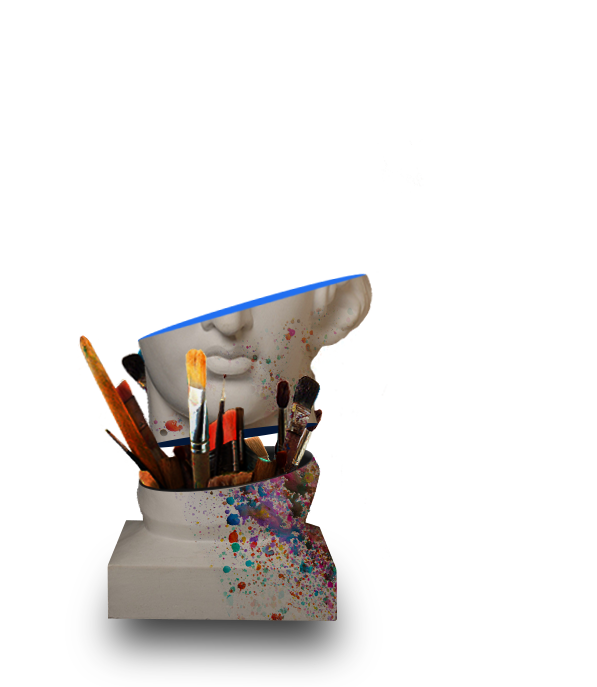
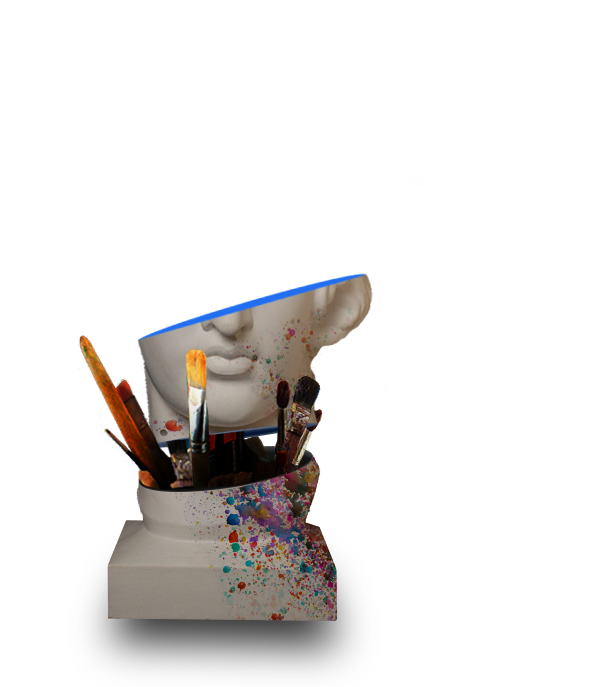
Fix - statue

Changed region(s): [[0.2111, 0.5808, 0.4824, 0.7336], [0.1809, 0.4891, 0.2714, 0.5808], [0.1809, 0.6114, 0.2111, 0.6419]]

diff --git a/sass/style.css b/sass/style.css
@@ -383,8 +383,8 @@ h1:hover {
   display: grid;
   height: 100vh;
   width: 50%;
-  -ms-grid-columns: 1fr 1fr;
-      grid-template-columns: 1fr 1fr;
+  -ms-grid-columns: 1fr;
+      grid-template-columns: 1fr;
   -ms-grid-rows: 1fr 1fr;
       grid-template-rows: 1fr 1fr;
 }
@@ -395,8 +395,9 @@ h1:hover {
   -ms-grid-row: 1;
   -ms-grid-row-span: 1;
   grid-row: 1 / 2;
-  z-index: 8;
-  margin: 38px 0 0 104px;
+  z-index: 16;
+  margin-top: 130px;
+  margin-left: 500px;
 }
 
 #statue_head:hover {
@@ -430,8 +431,9 @@ h1:hover {
   -ms-grid-row: 1;
   -ms-grid-row-span: 1;
   grid-row: 1 / 2;
-  margin: 72px 0 0 105px;
-  z-index: 3;
+  margin-top: 140px;
+  margin-left: 500px;
+  z-index: 14;
   -webkit-animation: 3s move_statue_brow;
           animation: 3s move_statue_brow;
 }
@@ -468,8 +470,9 @@ h1:hover {
   -ms-grid-row: 1;
   -ms-grid-row-span: 1;
   grid-row: 1 / 2;
-  margin: 62px 0 0 52px;
-  z-index: 1;
+  margin-top: 174px;
+  margin-left: 500px;
+  z-index: 12;
   -webkit-animation: 3s move_statue_eyes;
           animation: 3s move_statue_eyes;
 }
@@ -506,7 +509,8 @@ h1:hover {
   -ms-grid-row: 1;
   -ms-grid-row-span: 1;
   grid-row: 1 / 2;
-  margin: 74px 0 0 42px;
+  margin-top: 190px;
+  margin-left: 450px;
   z-index: 10;
   -webkit-animation: 3s move_statue_piedestal;
           animation: 3s move_statue_piedestal;
@@ -540,8 +544,8 @@ h1:hover {
   -ms-grid-row: 1;
   -ms-grid-row-span: 2;
   grid-row: 1 / 3;
-  margin: 50px 0 0 230px;
-  z-index: 2;
+  margin: 150px 300px 0 700px;
+  z-index: 15;
   -webkit-animation: 4s move_txt-bienvenue;
           animation: 4s move_txt-bienvenue;
 }
@@ -582,8 +586,8 @@ h1:hover {
   -ms-grid-row: 1;
   -ms-grid-row-span: 2;
   grid-row: 1 / 3;
-  margin: 170px 0 0 280px;
-  z-index: 2;
+  margin: 280px 300px 0 700px;
+  z-index: 13;
   -webkit-animation: 3s move_txt-dans_la;
           animation: 3s move_txt-dans_la;
 }
@@ -623,16 +627,16 @@ h1:hover {
   -ms-grid-row: 1;
   -ms-grid-row-span: 2;
   grid-row: 1 / 3;
-  margin: 256px 0 0 230px;
-  z-index: 4;
+  margin: 410px 300px 0 700px;
+  z-index: 11;
   -webkit-animation: 4s move_txt-galerie;
           animation: 4s move_txt-galerie;
 }
 
 @-webkit-keyframes move_txt-galerie {
   0% {
-    -webkit-transform: translatey(-27rem) scale(3);
-            transform: translatey(-27rem) scale(3);
+    -webkit-transform: translatey(0rem) scale(1.2);
+            transform: translatey(0rem) scale(1.2);
     opacity: 0;
   }
   100% {
@@ -644,8 +648,8 @@ h1:hover {
 
 @keyframes move_txt-galerie {
   0% {
-    -webkit-transform: translatey(-27rem) scale(3);
-            transform: translatey(-27rem) scale(3);
+    -webkit-transform: translatey(0rem) scale(1.2);
+            transform: translatey(0rem) scale(1.2);
     opacity: 0;
   }
   100% {

diff --git a/sass/style.scss b/sass/style.scss
@@ -290,14 +290,16 @@ body {
       display: grid;
       height: 100vh;
       width: 50%;
-      grid-template-columns: 1fr 1fr;  
+      grid-template-columns: 1fr;  
       grid-template-rows: 1fr 1fr;
       }
      #statue_head{   
       grid-column: 1 / 1;
       grid-row: 1 / 2;
-      z-index: 8;
-      margin : 38px 0 0 104px;
+      z-index:16 ;
+      // margin : 38px 0 0 104px;
+      margin-top: 130px;
+      margin-left: 500px;
        &:hover {
          animation: 4s move_statue_head;
        }
@@ -313,8 +315,10 @@ body {
        #statue_brow{
         grid-column: 1 / 1;
         grid-row: 1 / 2;
-        margin : 72px 0 0 105px;
-        z-index: 3;
+        // margin : 72px 0 0 105px;
+        margin-top: 140px;
+        margin-left: 500px;
+        z-index: 14;
         animation: 3s move_statue_brow;
         }
          @keyframes move_statue_brow {
@@ -329,8 +333,10 @@ body {
        #statue_eyes{
        grid-column: 1 / 1;
        grid-row: 1 / 2;
-       margin : 62px 0 0 52px;
-       z-index: 1;
+      //  margin : 62px 0 0 52px;
+      margin-top: 174px;
+      margin-left: 500px;
+       z-index: 12;
        animation: 3s move_statue_eyes;
        }
        @keyframes move_statue_eyes {
@@ -345,7 +351,9 @@ body {
        #statue_piedestal{ 
         grid-column: 1 / 1;
         grid-row: 1 / 2;
-        margin : 74px 0 0 42px;
+        // margin : 190px 200px 500px 0;
+        margin-top: 190px;
+        margin-left: 450px;
         z-index: 10;
         animation: 3s move_statue_piedestal;
          }
@@ -363,8 +371,8 @@ body {
        color: #FE1D57;
        grid-column:  1 / 2;
        grid-row: 1 / 3;
-       margin : 50px 0 0 230px;
-       z-index: 2;
+       margin : 150px 300px 0 700px;
+       z-index: 15;
        animation: 4s move_txt-bienvenue;
        }
        @keyframes move_txt-bienvenue {
@@ -382,8 +390,8 @@ body {
        color: #FFF685;
        grid-column:  1 / 2;
        grid-row: 1 / 3;
-       margin : 170px 0 0 280px;
-       z-index: 2;
+       margin : 280px 300px 0 700px;
+       z-index: 13;
        animation: 3s move_txt-dans_la;
        }
        @keyframes move_txt-dans_la {
@@ -400,13 +408,13 @@ body {
        color: #0149B7;
        grid-column:  1 / 2;
        grid-row: 1 / 3;
-       margin : 256px 0 0 230px;
-       z-index: 4;
+       margin : 410px 300px 0 700px;
+       z-index: 11;
        animation: 4s move_txt-galerie;
        } 
        @keyframes move_txt-galerie {
          0% {
-           transform: translatey(-27rem) scale(3);
+           transform: translatey(0rem) scale(1.2);
            opacity: 0;
          }100%{
            transform: translatey(0rem) scale(1);
